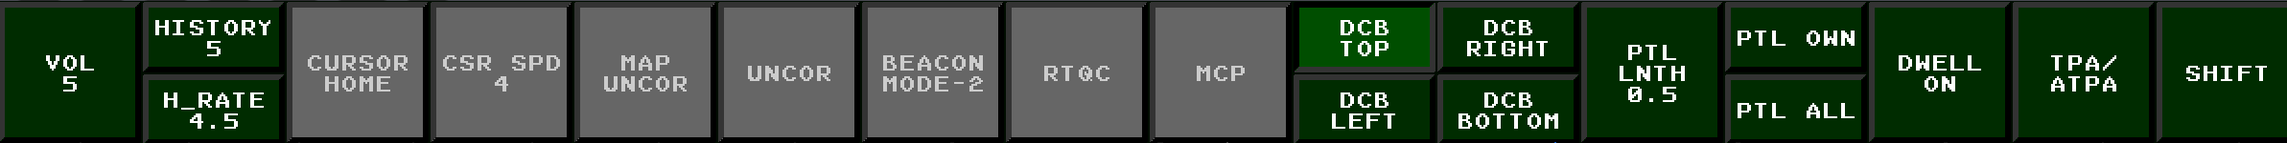
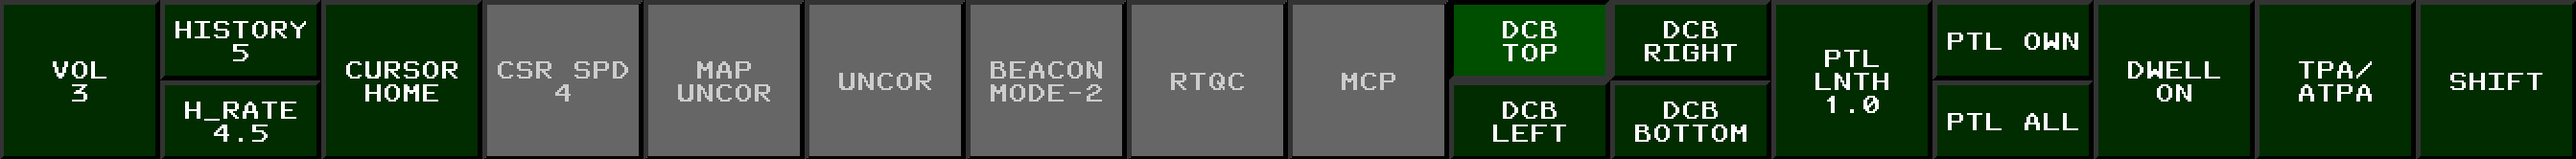
update

Changed region(s): [[0.0, 0.0, 1.0, 0.9867], [0.0621, 0.32, 0.0931, 0.3467]]

diff --git a/vice/index.html b/vice/index.html
@@ -771,7 +771,7 @@ Y90.
                 <p>Your browser may warn about the installer being from an unknown publisher and when you run the installer, Windows will put up a window informing you that it has protected your PC and prevented the installer from running. Click "More Info" and then "Run anyway" to proceed with installation.</p>
               </div><!--//callout-block-->
             </div><!--//content-->
-            <a href="https://github.com/mmp/vice/releases/download/v0.11.9/Vice-v0.11.9-installer.msi" class="btn btn-primary"><i class="fas fa-download me-2"></i> Download Vice v0.11.9 for Windows</a>
+            <a href="https://github.com/mmp/vice/releases/download/v0.11.10/Vice-v0.11.10-installer.msi" class="btn btn-primary"><i class="fas fa-download me-2"></i> Download Vice v0.11.10 for Windows</a>
           </section><!--//section-->
           
           <section class="docs-section" id="install-mac">
@@ -780,7 +780,7 @@ Y90.
             <p>On a Mac, download the <i>zip</i> file below; it contains a universal binary that runs
               on both Intel and Apple CPUs. Note that MacOS Big Sur or a more recent version of OSX is required.
               After opening the <i>zip</i> file, drag <i>Vice.app</i> to your <i>Applications</i> folder to install it.</p>
-            <a href="https://github.com/mmp/vice/releases/download/v0.11.9/Vice-v0.11.9-osx.zip" class="btn btn-primary"><i class="fas fa-download me-2"></i> Download Vice v0.11.9 for Mac</a>
+            <a href="https://github.com/mmp/vice/releases/download/v0.11.10/Vice-v0.11.10-osx.zip" class="btn btn-primary"><i class="fas fa-download me-2"></i> Download Vice v0.11.10 for Mac</a>
           </section><!--//section-->
 
           <section class="docs-section" id="install-linux">
@@ -806,6 +806,35 @@ how it simulates aircraft or the STARS interface.
 
           <section class="docs-section" id="releases">
             <h2 class="section-heading">Release History</h2>
+
+            <h3>0.11.10 (15 April 2025)</h3>
+            <ul>
+              <li>New scenarios: GTF (Merry), PCT SHD (Ketan K).</li>
+              <li>Scenario updates: JAX (Jud Lopez), LIB (Matt P), CLT (agnuse), DCA (Ketan K), A90 (radarcontacto).</li>
+              <li>Fixed a bug where wind gusts would cycle between the gust windspeed all the way down to zero wind.</li>
+              <li>Fixed a bug where handoffs between virtual controllers during aircraft prespawn would never be accepted.</li>
+              <li>STARS:
+                <ul>
+                  <li>Fixed a bug where the partial datablock for a track would sometimes be drawn after a handoff was accepted
+                    before the controller clicked the track to switch from the FDB.</li>
+                  <li>Fixed drawing of PREF submenu.</li>
+                  <li>Fixed a few bugs with entering values with the keyboard after selecting DCB buttons.</li>
+                  <li>Various improvements to improve performance with many tracks on the screen.</li>
+                </ul>
+              </li>
+              <li>Facility engineering:
+                <ul>
+                  <li>Routes can now contain lat-long coordinates in the form <code>4900N/05000W</code>.</li>
+                  <li>Routes can now have <code>/shift</code> after a fix to signify that the location of the fix
+                    should be randomly shifted by a given distance before or after the fix.</li>
+                  <li>Routes can now have <code>/ph</code> after a fix to signify fly present heading after the fix.</li>
+                  <li>Routes can now have <code>/tc</code> after a fix to signify that communications should be
+                    handed off at the fix; this is useful for aircraft where control has been flashed from a virtual
+                    controller to a human controller earlier but where the virtual controller will continue to
+                    control the aircraft for a while before having them contact the human.</li>
+                </ul>
+              </li>
+            </ul>
 
             <h3>0.11.9 (22 March 2025)</h3>
             <ul>
@@ -2089,6 +2118,36 @@ how it simulates aircraft or the STARS interface.
                 </tbody>
               </table>
 
+              <h3 id="cursor-hiding-home">The Cursor Home and Hiding the Cursor</h3>
+
+            <p>After a keyboard command is entered, the STARS cursor may be optionally returned to a "home"
+              position and hidden. It will then reappear when the mouse is moved. The "CURSOR HOME" button in the
+              <a href="#stars-dcb">auxiliary DCB menu</a> can be used to toggle this behavior.
+              If not specified using one of the following commands, the default home position is at the upper-left
+              of the <a href="#stars-ssa-list">SSA list</a>.</p>
+              <table class="table table-bordered">
+                <thead>
+                  <tr>
+                    <th style="width:30%">Command</th>
+                    <th>Function</th>
+                  </tr>
+                </thead>
+                <tbody>
+                  <tr>
+                    <td><code>[MULTIFUNC]IHS</code></td>
+                    <td>Enables auto cursor home.</td>
+                  </tr>
+                  <tr>
+                    <td><code>[MULTIFUNC]INH</code></td>
+                    <td>Disables auto cursor home.</td>
+                  </tr>
+                  <tr>
+                    <td><code>[MULTIFUNC]INC[SLEW]</code></td>
+                    <td>Enables auto cursor home and sets the home position to be the slewed location on the radar scope.</td>
+                  </tr>
+                </tbody>
+              </table>
+
           </section>            
 
 	  <section class="docs-section" id="stars-quickref">
@@ -2170,7 +2229,7 @@ how it simulates aircraft or the STARS interface.
               </ul>
             <p>Here is the auxiliary DCB:</p>
             <div class="text-center">
-              <img src="dcb-aux.png" srcset="dcb-aux-2x.png 2x" width="1193" height="75" style="max-width: 100%; height:auto;">
+              <img src="dcb-aux.png" srcset="dcb-aux-2x.png 2x" width="1343" height="83" style="max-width: 100%; height:auto;">
             </div>
             <br>
             <p>Many of its buttons are disabled; the enabled ones are:</p>
@@ -2178,6 +2237,7 @@ how it simulates aircraft or the STARS interface.
                 <li>VOL: controls the volume of <a href="#audio-alerts">STARS audio alerts</a>. A short test sound is played when it is changed.</li>
                 <li>HISTORY: sets the number of dots drawn showing the aircraft's <a href="#stars-track-ids-history">radar track history</a>.</li>
                 <li>H_RATE: sets the rate in seconds that a new dot is added to aircraft history trails.</li>
+                <li>CURSOR HOME: controls whether the cursor is <a href="#cursor-hiding-home">hidden and returned to home position</a> after a keyboard command is entered.</li> 
                 <li>DCB LEFT/RIGHT/TOP/BOTTOM: sets the side of the radar scope where the DCB is displayed.</li>
                 <li>PTL LNTH/PTL OWN/PTL ALL: controls <a href="#stars-ptl-lines">Predicted Track Lines</a> (PTLs).</li>
                 <li>DWELL: enables or disables <a href="#stars-dwell-mode">dwell mode</a>.</li>
@@ -5082,6 +5142,12 @@ how it simulates aircraft or the STARS interface.
                     <td><code>"40.6328888,-73.771385"</code></td>
                   </tr>
                   <tr>
+                    <td>Degrees minutes</td>
+                    <td>Latitude encoded with 4 digits representing degrees and minutes (sixtieths of a degree), followed by "N" or "S",
+                      followed by a slash and then 5 digits representing degrees and minutes longitude, followed by "E" or "W".
+                    <td><code>"4037N/07346W"</code></td>
+                  </tr>
+                  <tr>
                     <td>Degrees, minutes, seconds</td>
                     <td>A pair of values with position specified in degrees, minutes, and seconds, separated by periods.
                       "N" and "S" are used to distinguish North and South latitudes and similarly for "E" and "W" with longitudes.</td>
@@ -5094,7 +5160,7 @@ how it simulates aircraft or the STARS interface.
                   </tr>
                 </tbody>
                 </table>
-            <p>(In all three examples above, the location specified is the same&mdash;the JFK VOR.)
+            <p>(In all of the examples above, the location specified is the same&mdash;the JFK VOR.)
             </p>
             <p>
               In <i>vice</i>, if you hold down the control and shift keys and click on a point on the video map, the corresponding
@@ -5116,7 +5182,7 @@ how it simulates aircraft or the STARS interface.
               In addition to the lateral positions along the route, it is possibly to specify speed and altitude restrictions, handoff points,
               and headings to fly.
             </p>
-            <p>Here is an example route from a JFK departure. The first two waypoints along the departure runway are automatically
+            <p>Here is an example route from a JFK departure. The first two fixes along the departure runway are automatically
               provided by <i>vice</i> so the route starts with the specified fixes in the departure procedure.
               The "/h223" after "RNGRR" specifies that the aircraft should fly a 223 heading as departing RNGRR.
               It will maintain that heading until it
@@ -5125,7 +5191,7 @@ how it simulates aircraft or the STARS interface.
             <pre>
   "SKORR METSS RNGRR/h223"
             </pre>
-            <p>A variety of such things can be specified along with a waypoint:</p>
+            <p>A variety of such things can be specified along with a fix:</p>
             <ul>
               <li> <code>/a</code><i>restriction</i>: for IFR routes, cross the fix with the specified altitude restriction
                 (with altitudes specified in 100s of feet). For VFR, aircraft will be at a random altitude within a given
@@ -5146,28 +5212,37 @@ how it simulates aircraft or the STARS interface.
               <li> <code>/flyover</code>: indicates that the fix is a <i>flyover</i> fix (as opposed to the
                 default, <i>fly-by</i>). Aircraft must pass directly over flyover
                 fixes before turning to the next fix, while they may turn early with fly-by fixes.</li>
+              <li> <code>/ph</code><i>heading</i>: fly present heading (rounded to the nearest 5 degree increment) departing the fix.</li>
               <li> <code>/s</code><i>speed</i>: cross the fix at the given speed</li>
             </ul>
-
-              (This is intended for ambient traffic that's not under the control for a human.)</li>       
+            <p>A number of specifiers are intended for ambient traffic that's not under the control for a human:</p>
             <ul>
-              <li> <code>/clearapp</code>: the aircraft will be cleared for the assigned approach passing the fix.
-              <li> <code>/spsp</code><i>scratchpad</i>: sets the aircraft's primary scratchpad to the given value.</li>
-              <li> <code>/sssp</code><i>scratchpad</i>: sets the aircraft's secondary scratchpad to the given value.</li>
-              <li> <code>/ho</code>: the aircraft should be handed off from the virtual controller departs the fix.
-                A TCP id may be specified after <code>/ho</code>, in which case the aircraft is handed off to the
-                corresponding virtual controller. If no TCP id is specified, the aircraft is handed off to the
+              <li> <code>/clearapp</code>: the aircraft will be cleared for the assigned approach passing the fix.</li>
+              <li> <code>/ho</code>: the aircraft should be handed off from the virtual controller when it passes the fix.
+                A TCP may be specified after <code>/ho</code>, in which case the aircraft is handed off to the
+                corresponding virtual controller. If no TCP is specified, the aircraft is handed off to the
                 appropriate human controller.
               </li>
-              <li> <code>/po</code><i>TCP id</i>: when the aircraft passes the waypoint
+              <li> <code>/tc</code>: "transfer comms": after passing a <code>/ho</code> fix, normally aircraft call in
+                a few seconds after the human controller accepts the handoff.  However, if <code>/tc</code> is specified
+                at a later fix in the route, they won't contact the controller until reaching that fix.</li>
+              <li> <code>/po</code><i>TCP id</i>: when the aircraft passes the fix
                 and if it is under the control of a virtual controller,
                 issue a point out to the controller identified by the given TCP id (i.e., the
                 controller ID that would be used when doing a point out in STARS.)</li>
+              <li> <code>/radius</code><i>num</i>: rather than flying precisely to the fix, the aircraft will fly to
+                a random point within <i>num</i> miles of the fix.</li>
+              <li> <code>/shift</code><i>num</i>: rather than flying precisely to the fix, the aircraft will fly along
+                the route to the fix but will turn for the next fix at a random distance before or after the fix,
+                up to num/2 nautical miles in each direction.</li>
+              <li> <code>/spsp</code><i>scratchpad</i>: sets the aircraft's primary scratchpad to the given value.</li>
+              <li> <code>/sssp</code><i>scratchpad</i>: sets the aircraft's secondary scratchpad to the given value.</li>
               <li> <code>/cpsp</code>: clears the aircraft's primary scratchpad</li>
               <li> <code>/cssp</code>: clears the aircraft's secondary scratchpad</li>
             </ul>
 
-              <p>There are also some specifiers that can be used with VFR aircraft routes:</p>
+            <p>In addition to <code>/radius</code> and <code>/shift</code>, which are also useful for randomizing VFR
+              routes, there's an additional specifier that can be used with VFR aircraft routes:</p>
             <ul>
               <li> <code>/airwork</code>: the aircraft should perform airwork
                 centered around the fix. An altitude restriction must be specified using <code>/a</code> to give an altitude
@@ -5175,8 +5250,6 @@ how it simulates aircraft or the STARS interface.
                 alternatively, the time or distance may be specified via <code>/airwork</code><i>radius</i><code>nm</code>
                 and/or  <code>/airwork</code><i>minutes</i><code>m</code>. For example: <code>/airwork30m10nm</code>
                 specifies 30 minutes of airwork within a 10nm radius of the fix.</li>
-              <li> <code>/radius</code><i>num</i>: rather than flying precisely to the waypoint, the aircraft will fly to
-                a random point within <i>num</i> miles of the waypoint.</li>
             </ul>
 
             <p>If the aircraft should follow an arc leaving a
@@ -5584,7 +5657,7 @@ how it simulates aircraft or the STARS interface.
               <a href="https://www.faa.gov/air_traffic/flight_info/aeronav/digital_products/cifp/">FAA CIFP</a> or manually.
               To use CIFP data, run <i>vice</i> from the command-line and give it the argument <code>-route KXYZ</code>, where
               <code>KXYZ</code> is the ICAO code for the airport. <i>vice</i> will print identifiers for the available approaches
-              and their associated waypoints. For example:</p>
+              and their associated fixs. For example:</p>
 <pre>
   > ..\vice.exe -routes KMIA
   [...]  
